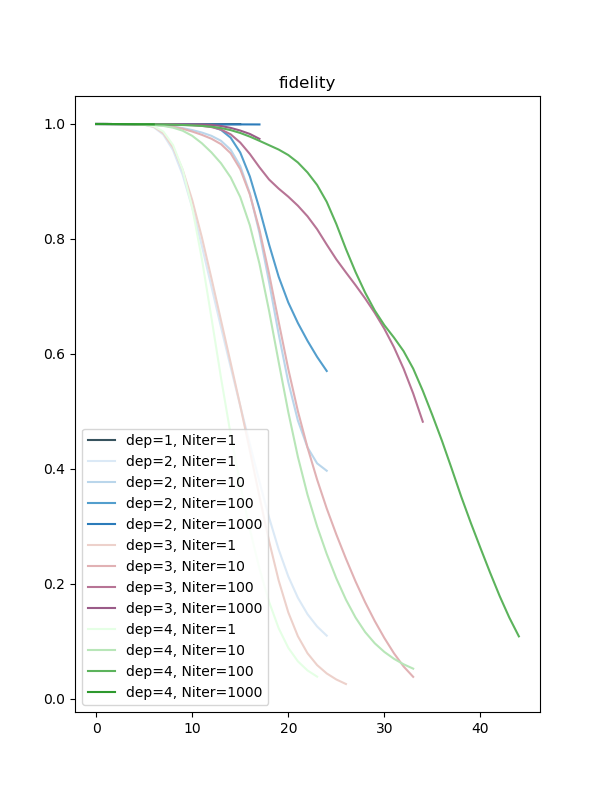
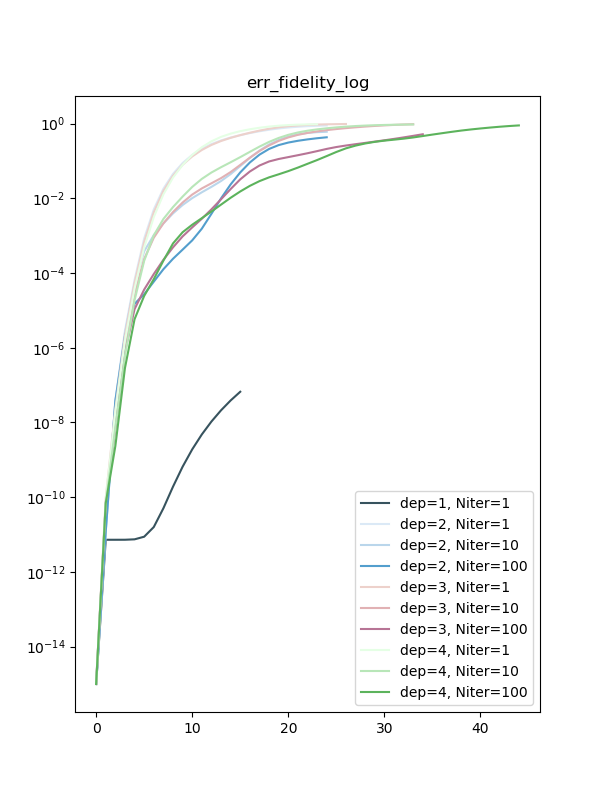
add fidelity plot; now comparing to correct tebd;

diff --git a/2_time_evolution/plot_fidelity.py b/2_time_evolution/plot_fidelity.py
@@ -1,0 +1,69 @@
+import matplotlib.pyplot as plt
+import numpy as np
+import sys, os
+import pickle as pkl
+sys.path.append('..')
+import misc
+import qTEBD
+import seaborn as sns
+color_set = [sns.color_palette("GnBu_d"),
+             sns.color_palette("Blues"),
+             sns.cubehelix_palette(8),
+             sns.light_palette("green"),
+            ]
+
+if __name__ == '__main__':
+    L = int(sys.argv[1])
+    g = float(sys.argv[2])
+    order = str(sys.argv[3])
+    Hamiltonian = 'TFI'
+    product_state = [np.array([1., 0.]).reshape([2, 1, 1]) for i in range(L)]
+
+    plt.close()
+    fig=plt.figure(figsize=(6,8))
+
+    ############################################
+    circuit_dir_path = 'data_te/1d_%s_g%.1f/L%d/' % (Hamiltonian, g, L)
+    mps_dir_path = 'data_tebd/1d_%s_g%.1f/L%d/' % (Hamiltonian, g, L)
+
+    final_time = []
+    for depth in range(1,5):
+        final_time.append([])
+        for idx, N_iter in enumerate([1,10,100,]):
+            if depth==1 and N_iter > 1:
+                continue
+
+            color = color_set[depth-1][int(idx*1.5)]
+
+            circuit_sub_dir = '/wf_depth%d_Niter%d_%s/' % (depth, N_iter, order)
+            mps_sub_dir = '/wf_chi%d_%s/' % (2**depth, order)
+            fidelity_list = []
+            for t_idx in range(300):
+                try:
+                    T = 0.1 * t_idx
+                    circuit_path = circuit_dir_path + circuit_sub_dir + 'T%.1f.pkl' % T
+                    circuit = pkl.load(open(circuit_path, 'rb'))
+                    mps_path = mps_dir_path + mps_sub_dir + 'T%.1f.pkl' % T
+                    mps = pkl.load(open(mps_path, 'rb'))
+
+                    mps_of_layer = qTEBD.circuit_2_mps(circuit, product_state)
+                    overlap = qTEBD.overlap(mps_of_layer[-1], mps)
+                    F = np.abs(overlap) ** 2
+                    print(" F(", t_idx, ") = ", F)
+                    fidelity_list.append(F)
+                except Exception as e:
+                    print(e)
+                    break
+
+            plt.plot(1.-np.array(fidelity_list)+1e-15, color=color, label='dep=%d, Niter=%d' % (depth, N_iter))
+            plt.gca().set_yscale('log')
+
+            # plt.plot(np.array(fidelity_list), color=color, label='dep=%d, Niter=%d' % (depth, N_iter))
+
+
+    plt.legend()
+    plt.title('err_fidelity_log')
+    plt.savefig('figure/time_evolv_TFI/fidelity.png')
+    plt.show()
+
+
